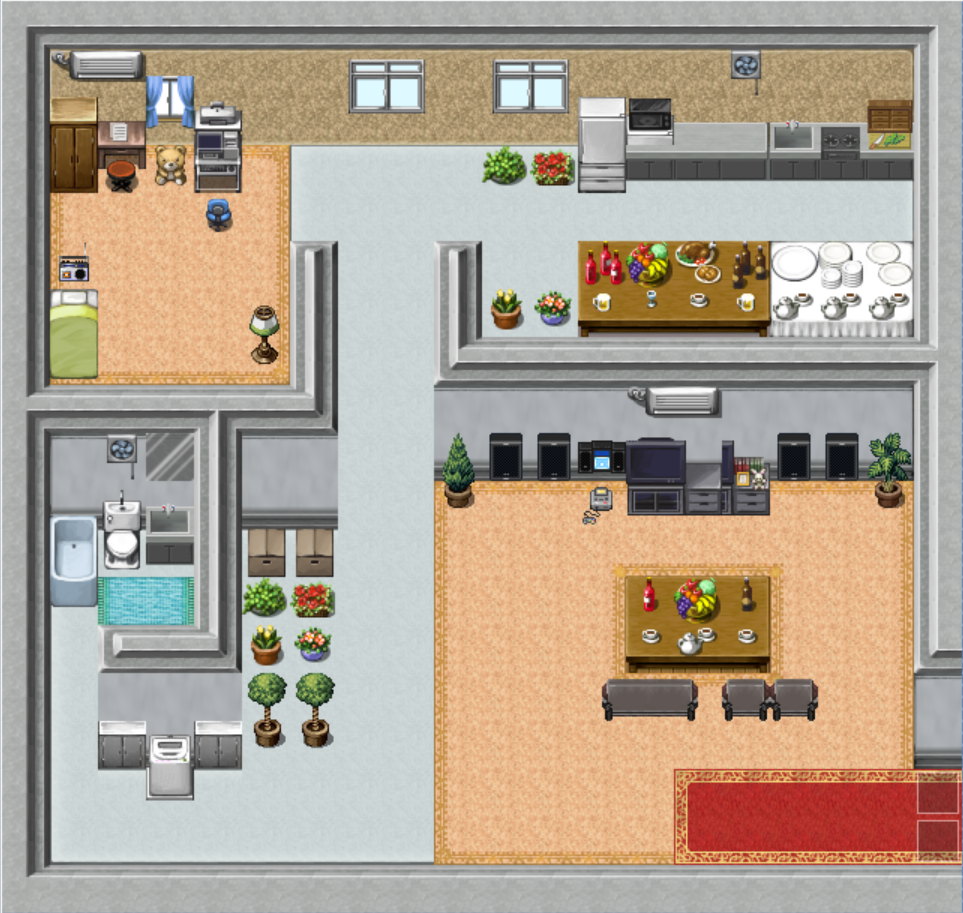
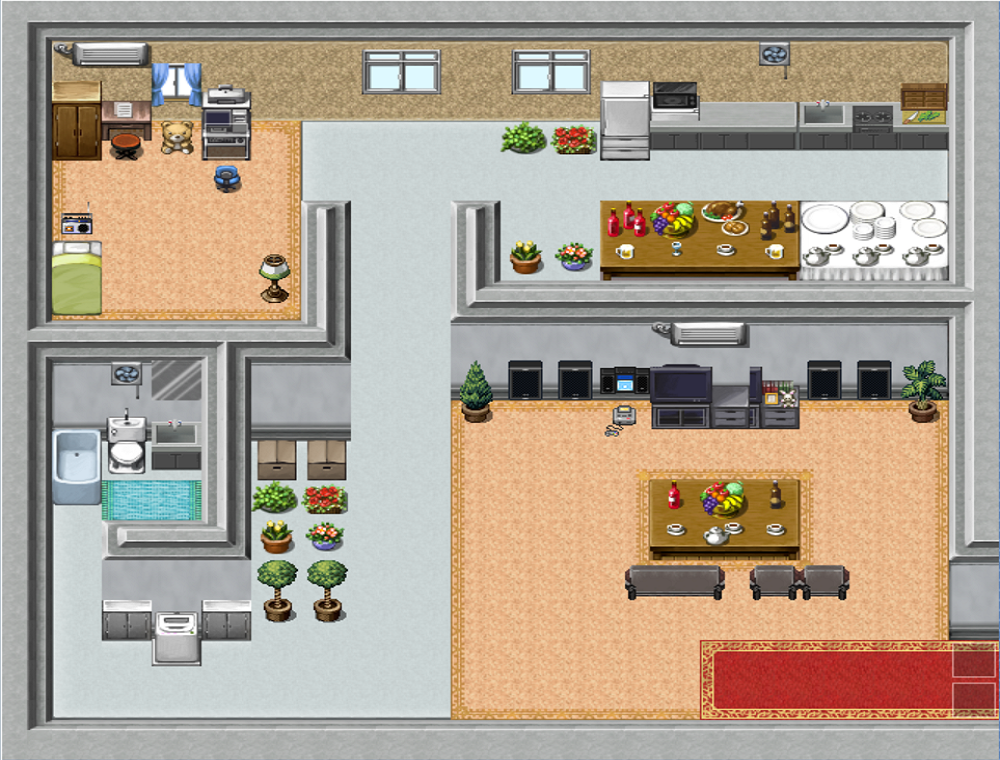
Home Screen initialized

Changed region(s): [[0.0623, 0.2724, 0.0935, 0.3026]]

diff --git a/BrooklynTechRPG/src/TechRPG/TechGame.java b/BrooklynTechRPG/src/TechRPG/TechGame.java
@@ -8,6 +8,7 @@ import player.Player;
 import screens.ClassroomScreen;
 import screens.HallwayScreen;
 import screens.HelpScreen;
+import screens.HomeScreen;
 import screens.InventoryScreen;
 import screens.MenuScreen;
 
@@ -23,6 +24,7 @@ public class TechGame extends GUIApplication {
 	public static InventoryScreen invScreen;
 	public static ClassroomScreen classroomScreen;
 	public static HallwayScreen hallwayScreen;
+	public static HomeScreen homeScreen;
 	public static Player player;
 
 	/**
@@ -41,7 +43,7 @@ public class TechGame extends GUIApplication {
 	@Override
 	public void initScreen() {
 		menuScreen = new MenuScreen(getWidth(),getHeight());
-//		setScreen(menuScreen);
+		setScreen(menuScreen);
 		
 		invScreen = new InventoryScreen(getWidth(),getHeight());
 		//setScreen(invScreen);
@@ -53,7 +55,12 @@ public class TechGame extends GUIApplication {
 		//setScreen(classroomScreen);
 		
 		hallwayScreen = new HallwayScreen(getWidth(),getHeight());
-		setScreen(hallwayScreen);
+		//setScreen(hallwayScreen);
+		
+		homeScreen = new HomeScreen(getWidth(),getHeight());
+		//setScreen(homeScreen);
+		
+		
 		
 	}
  

diff --git a/BrooklynTechRPG/src/screens/HomeScreen.java b/BrooklynTechRPG/src/screens/HomeScreen.java
@@ -1,0 +1,32 @@
+package screens;
+
+import java.awt.event.KeyListener;
+import java.util.List;
+
+import guiTeacher.components.Graphic;
+import guiTeacher.interfaces.Visible;
+import guiTeacher.userInterfaces.FullFunctionScreen;
+
+public class HomeScreen extends FullFunctionScreen implements Runnable, KeyListener {
+	
+	private Graphic homebg;
+
+	public HomeScreen(int width, int height) {
+		super(width, height);
+		// TODO Auto-generated constructor stub
+	}
+
+	@Override
+	public void run() {
+		// TODO Auto-generated method stub
+
+	}
+
+	@Override
+	public void initAllObjects(List<Visible> viewObjects) {
+		homebg = new Graphic(0,0,"resources/home.png");
+		homebg.setX((getWidth()-homebg.getWidth())/2);
+		viewObjects.add(homebg);
+	}
+
+}
